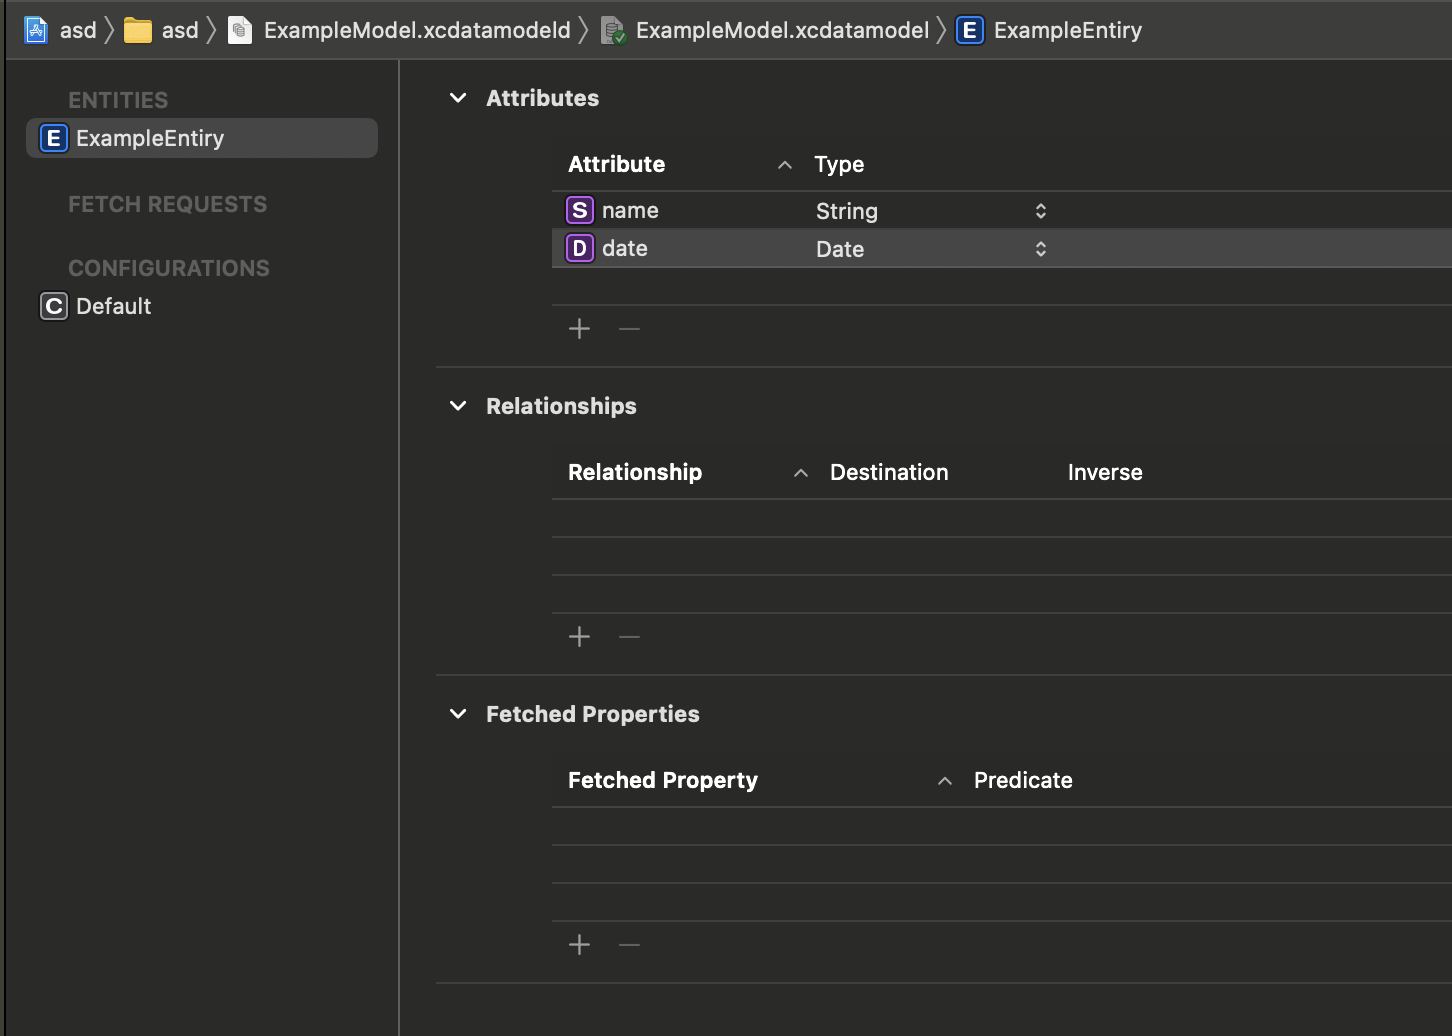
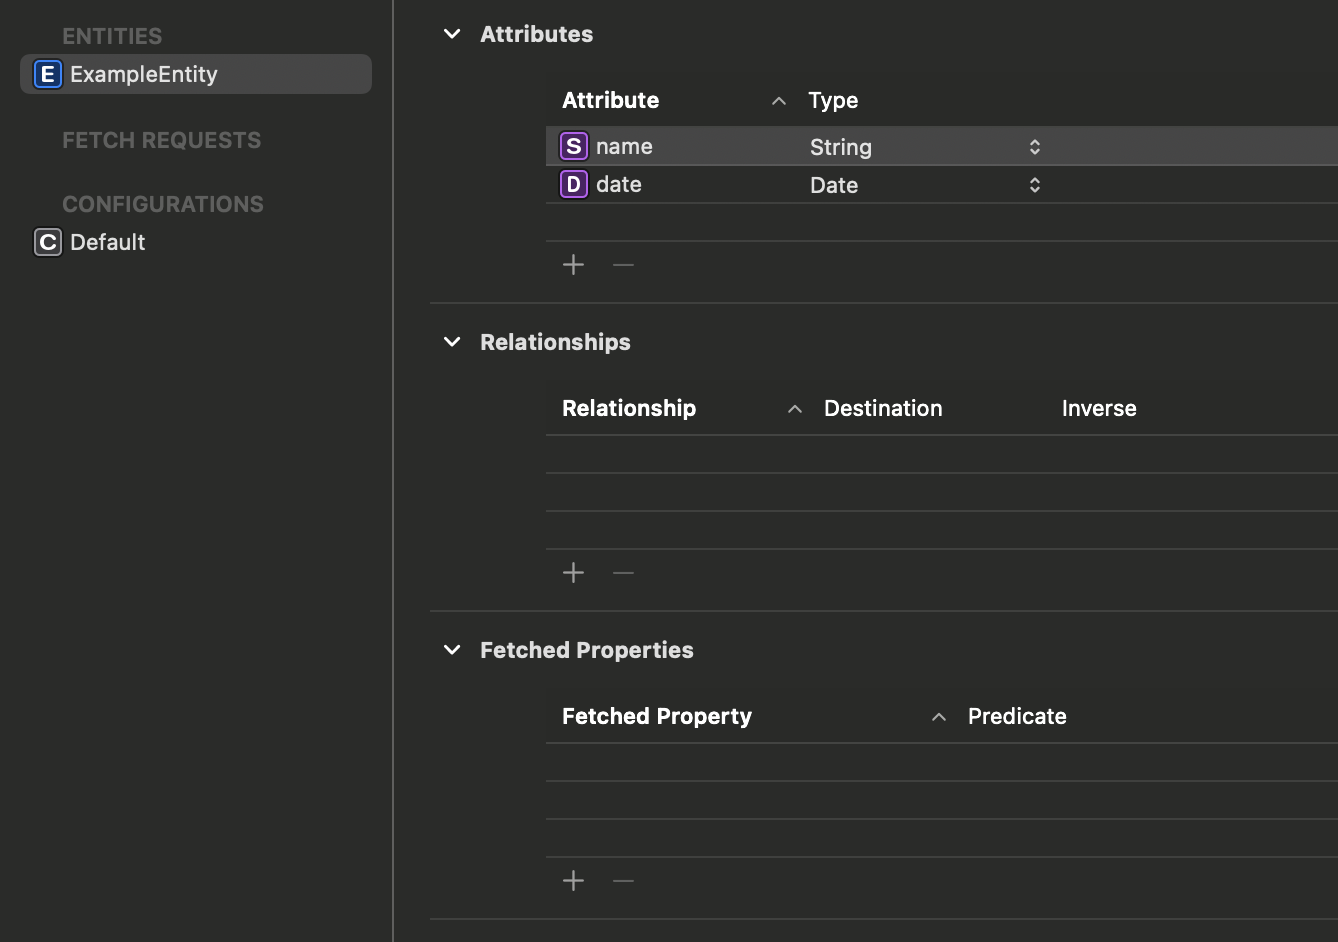
update core data model

diff --git a/_posts/2021-05-20-[iOS, Swift] Core Data Model in a Swift Package.md b/_posts/2021-05-20-[iOS, Swift] Core Data Model in a Swift Package.md
@@ -20,9 +20,9 @@ header:
 ```xml
 <?xml version="1.0" encoding="UTF-8" standalone="yes"?>
 <model type="com.apple.IDECoreDataModeler.DataModel" documentVersion="1.0" lastSavedToolsVersion="18154" systemVersion="20E241" minimumToolsVersion="Automatic" sourceLanguage="Swift" userDefinedModelVersionIdentifier="">
-    <entity name="ExampleEntiry" representedClassName="ExampleEntiry" syncable="YES" codeGenerationType="class">
-        <attribute name="date" optional="YES" attributeType="Date" usesScalarValueType="NO"/>
+    <entity name="ExampleEntity" representedClassName="ExampleEntity" syncable="YES" codeGenerationType="class">
         <attribute name="name" optional="YES" attributeType="String"/>
+        <attribute name="date" optional="YES" attributeType="Date" usesScalarValueType="NO"/>
     </entity>
 </model>
 ```
@@ -32,7 +32,7 @@ header:
 ## 1. NSManagedObject
 
 ```swift
-public final class ExampleEntiry: NSManagedObject {
+public final class ExampleEntity: NSManagedObject {
     @NSManaged var name: String
     @NSManaged var date: Date
 }
@@ -44,8 +44,8 @@ public final class ExampleEntiry: NSManagedObject {
 func entityDescription() -> NSEntityDescription {
 
     let entity = NSEntityDescription()
-    entity.name = "ExampleEntiry"
-    entity.managedObjectClassName = NSStringFromClass(ExampleEntiry.self)
+    entity.name = "ExampleEntity"
+    entity.managedObjectClassName = NSStringFromClass(ExampleEntity.self)
 
     // Attributes
     let nameAttr = NSAttributeDescription()
